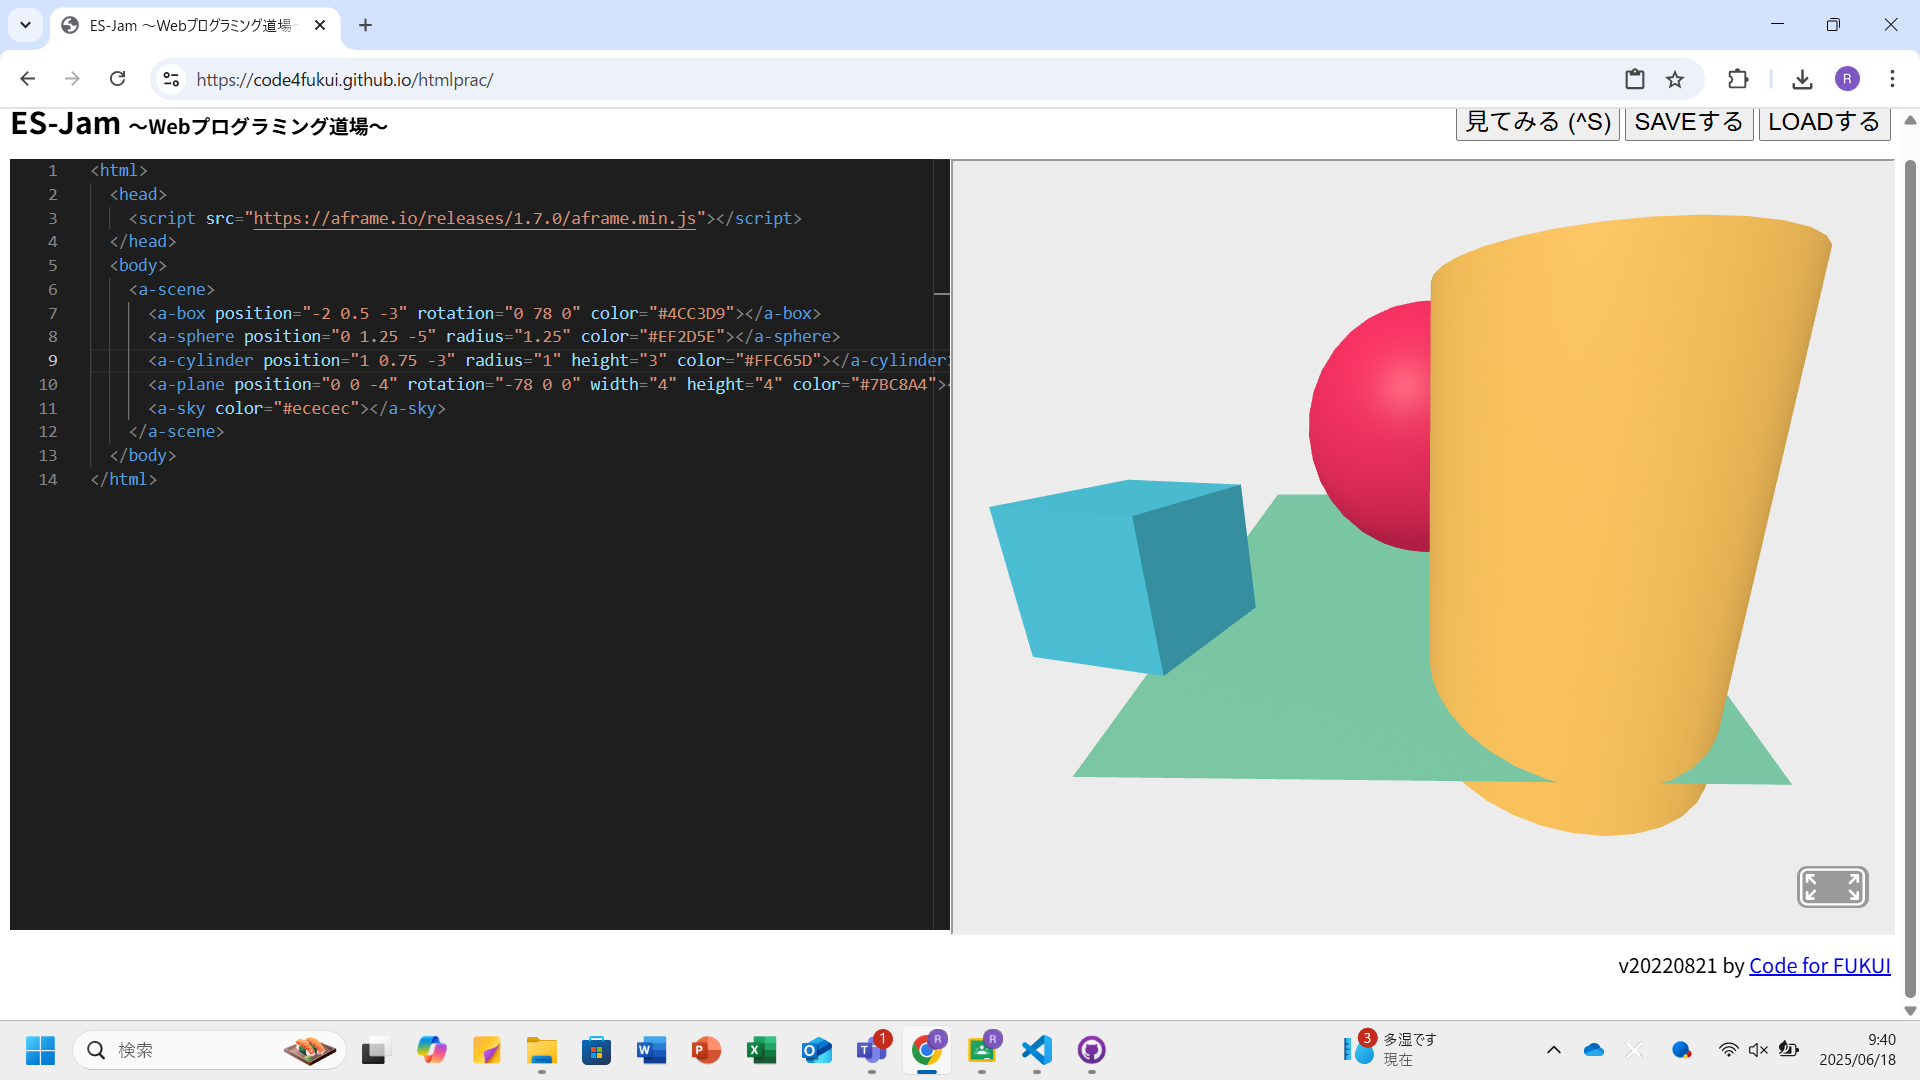
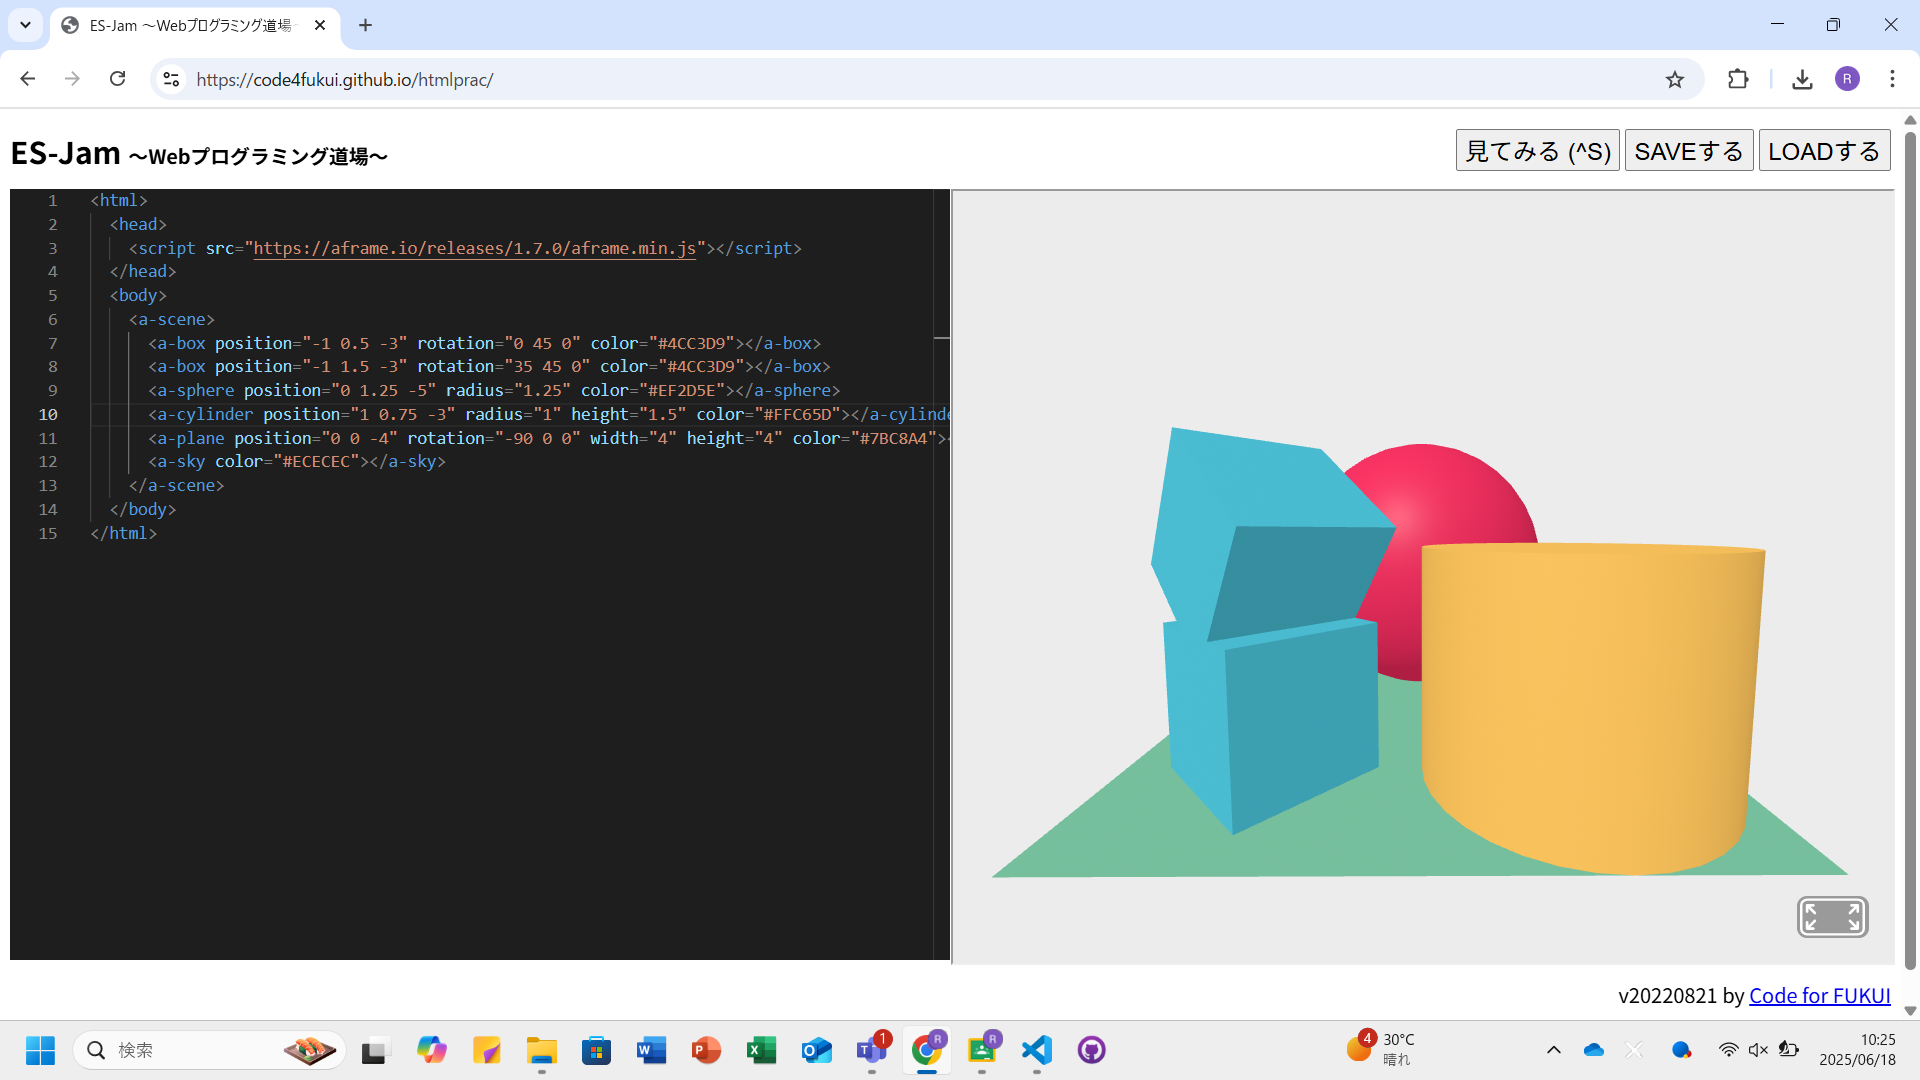
re

diff --git a/VR.html b/VR.html
@@ -1,177 +1,14 @@
 <html>
   <head>
-      <title>Hello, WebVR! - A-Frame</title>
-      <meta name="description" content="Hello, WebVR! - A-Frame">
-    <script src="https://aframe.io/releases/1.1.0/aframe.min.js"></script>
-    <script src="https://rawgit.com/fernandojsg/aframe-teleport-controls/master/dist/aframe-teleport-controls.min.js"></script>
-    <!--
-    <script src="https://cdn.jsdelivr.net/gh/n5ro/aframe-physics-system@v$npm_package_version/dist/aframe-physics-system.min.js"></script>
-    -->
-    <script src="//cdn.rawgit.com/donmccurdy/aframe-physics-system/v4.0.1/dist/aframe-physics-system.min.js"></script>
-    
+    <script src="https://aframe.io/releases/1.7.0/aframe.min.js"></script>
   </head>
   <body>
-    <script>
-      AFRAME.registerComponent('input-listen', {  
-        init:function () { //初期化
-          const txt = document.getElementById("txt");
-          this.el.grip=false;
-          
-          //レイキャスターが何かに交差したとき
-          this.el.addEventListener('raycaster-intersection', function (e) {
-            //複数選択された場合は0番目を覚えさせておく
-            this.selectedObj = e.detail.els[0];
-            txt.setAttribute("value", "Raycaster Intersect!");
-          });
-          //レイキャスターの交差が解除されたとき
-          this.el.addEventListener('raycaster-intersection-cleared', function (e) {
-            //選択オブジェクトの情報をリセット
-            this.selectedObj = null;
-            txt.setAttribute("value", "Raycaster Cleared");
-          });
-          
-          //xボタンを押し始めたときに実行される(左手のみ)
-          this.el.addEventListener('xbuttondown', function (e) {
-            txt.setAttribute("value", "x pressed");
-            this.emit('teleportstart');
-          });
-          //xボタンを離したときに実行される (左手のみ)
-          this.el.addEventListener('xbuttonup', function (e) {
-            txt.setAttribute("value", "x released");
-            this.emit('teleportend');
-          });
-          //yボタンを押し始めたときに実行される(左手のみ)
-          this.el.addEventListener('ybuttondown', function (e) {
-            txt.setAttribute("value", "y pressed");
-          });
-          //yボタンを離したときに実行される (左手のみ)
-          this.el.addEventListener('ybuttonup', function (e) {
-            txt.setAttribute("value", "y released");
-          });
-          //aボタンを押し始めたときに実行される(右手のみ)
-          this.el.addEventListener('abuttondown', function (e) {
-            txt.setAttribute("value", "a pressed");
-            //ballというクラス名のEntity(つまり弾)を全て取得
-            var els = document.querySelectorAll('.ball');
-              //弾を一つずつ削除
-              for (var i = 0; i < els.length; i++) {
-                els[i].parentNode.removeChild(els[i]);
-              }
-          });
-          //aボタンを離したときに実行される (右手のみ)
-          this.el.addEventListener('abuttonup', function (e) {
-            txt.setAttribute("value", "a released");
-          });
-          //bボタンを押し始めたときに実行される(右手のみ)
-          this.el.addEventListener('bbuttondown', function (e) {
-            txt.setAttribute("value", "b pressed");
-          });
-          //bボタンを離したときに実行される (右手のみ)
-          this.el.addEventListener('bbuttonup', function (e) {
-            txt.setAttribute("value", "b released");
-          });
-          //グリップボタンを押し始めたときに実行される(両手に対応)
-          this.el.addEventListener('gripdown', function (e) {
-            txt.setAttribute("value", "grip pressed");
-            this.grip=true;
-          });
-          //グリップボタンを離したときに実行される(両手に対応)
-          this.el.addEventListener('gripup', function (e) {
-            txt.setAttribute("value", "grip released");
-            this.grip=false;
-          });
-          //トリガーボタンを押し始めたときに実行される(両手に対応)
-          this.el.addEventListener('triggerdown', function (e) {
-            txt.setAttribute("value", "trigger pressed");
-            //コントローラの三次元座標を取得(thisはコントローラを参照)
-            var point = this.object3D.getWorldPosition();
-            //球エンティティを生成
-            var ball = document.createElement('a-sphere');
-            ball.setAttribute('class', 'ball');
-            ball.setAttribute('scale', '0.2 0.2 0.2');
-            ball.setAttribute('position', point);
-            //物理演算の影響をオンにする
-            ball.setAttribute('dynamic-body', 'shape: sphere; sphereRadius:0.2; ');
-            //Instantiate ball entity in a-scene
-            var scene = document.querySelector('a-scene');
-            scene.appendChild(ball);
-            //レイキャスターの向きを取得
-            var dir = this.getAttribute("raycaster").direction;
-            //ボールを飛ばす力を計算
-            var force = new THREE.Vector3(dir.x, dir.y, dir.z);
-            //2000倍くらいして結構な力をかける準備をする
-            force.multiplyScalar(2000);
-            //ボールにforceというプロパティを宣言して代入
-            ball.force = this.object3D.localToWorld(force); 
-        
-            //物理的演算に必要な情報がballで読み込み終わったら弾を撃つ 
-            ball.addEventListener('body-loaded', function (e) {
-              //弾(this)の位置を取得
-              var p = this.object3D.position;
-              //先ほど計算した弾(this)に加える勢いを取得
-              var f = this.force;
-              //弾に力を加えて飛ばす
-              this.body.applyForce(
-                new CANNON.Vec3(f.x, f.y, f.z), new CANNON.Vec3(p.x, p.y, p.z)
-              );
-            });
-            
-            txt.setAttribute("value", "sphere appendding finished");
-          });
-          //トリガーボタンを離したときに実行される(両手に対応)
-          this.el.addEventListener('triggerup', function (e) {
-            txt.setAttribute("value", "trigger released");
-          });
-          //ジョイスティックを傾けたとき(両手に対応)
-          this.el.addEventListener('thumbstickmoved', function (e) {
-            if (e.detail.y > 0.95) { txt.setAttribute("value", "DOWN"); }
-            if (e.detail.y < -0.95) { txt.setAttribute("value", "UP"); }
-            if (e.detail.x < -0.95) { txt.setAttribute("value", "LEFT"); }
-            if (e.detail.x > 0.95) { txt.setAttribute("value", "RIGHT"); }
-          });
-        },
-        
-        tick: function () { //毎フレーム更新
-          if (!this.el.selectedObj) { return; }
-          if (!this.el.grip) { return; }
-          //コントローラに追加したraycasterを取得
-          var ray = this.el.getAttribute("raycaster").direction;
-          //コントローラの1.1m手前の座標を計算(コントローラが原点)  
-          var p = new THREE.Vector3(ray.x, ray.y, ray.z);
-          p.normalize();
-          p.multiplyScalar(1.2);
-          //ローカル座標(コントローラ中心)をワールド座標に変換
-          this.el.object3D.localToWorld(p);
-          //Raycasterの先端に選択オブジェクトを追従させる
-          this.el.selectedObj.object3D.position.set(p.x, p.y, p.z);
-        }
-     });
-    </script>
-    <a-scene physics="debug: false; gravity: 0; restitution: 0.9;" background="color: #AAAAAA">
-      <a-box static-body class="collidable" position="-1 0.5 -3" rotation="0 45 0" color="#4CC3D9"></a-box>
-      <a-sphere static-body class="collidable" position="0 1.25 -5" radius="1.25" color="#EF2D5E"></a-sphere>
-      <a-cylinder static-body class="collidable" position="1 0.75 -3" radius="0.5" height="1.5" color="#FFC65D"></a-cylinder>
-      <a-plane static-body position="0 0 0" rotation="-90 0 0" width="10" height="10" src="https://tmdoi.github.io/website/js/controller/back.png" shadow></a-plane>
-      <a-plane static-body position="0 5 0" rotation="90 0 0" width="10" height="10" src="https://tmdoi.github.io/website/js/controller/back.png" shadow></a-plane>
-      <a-plane static-body position="0 2.5 -5" rotation="0 0 0" width="10" height="5" src="https://tmdoi.github.io/website/js/controller/back.png" shadow></a-plane>
-      <a-plane static-body position="0 2.5 5" rotation="0 180 0" width="10" height="5" src="https://tmdoi.github.io/website/js/controller/back.png" shadow></a-plane>
-      <a-plane static-body position="5 2.5 0" rotation="0 -90 0" width="10" height="5" src="https://tmdoi.github.io/website/js/controller/back.png" shadow></a-plane>
-      <a-plane static-body position="-5 2.5 0" rotation="0 90 0" width="10" height="5" src="https://tmdoi.github.io/website/js/controller/back.png" shadow></a-plane>
-      
-      <a-entity id="cameraRig">
-        <a-entity id="head" camera  wasd-controls look-controls position="0 1.6 0">
-          <a-text id="txt" value="--11-1.1.0" position="0 0 -1" scale="0.5 0.5 0.5" align="center" color="#FFFFFF"></a-text>
-        </a-entity>
-      
-        <a-entity teleport-controls="cameraRig: #cameraRig; teleportOrigin:#head;
-                  startEvents: teleportstart; endEvents: teleportend"
-                  raycaster="objects: .collidable; far:1.2;"
-                  oculus-touch-controls="hand: left" input-listen> </a-entity>
-        
-        <a-entity raycaster="objects: .collidable; far:1.2;"
-                  oculus-touch-controls="hand: right" input-listen> </a-entity>
-        
-      </a-entity>
+    <a-scene>
+      <a-box position="-1 0.5 -3" rotation="0 45 0" color="#4CC3D9"></a-box>
+      <a-box position="-1 1.5 -3" rotation="35 45 0" color="#4CC3D9"></a-box>
+      <a-sphere position="0 1.25 -5" radius="1.25" color="#EF2D5E"></a-sphere>
+      <a-cylinder position="1 0.75 -3" radius="1" height="1.5" color="#FFC65D"></a-cylinder>
+      <a-plane position="0 0 -4" rotation="-90 0 0" width="4" height="4" color="#7BC8A4"></a-plane>
       <a-sky color="#ECECEC"></a-sky>
     </a-scene>
   </body>

diff --git a/VR.htm b/VR.htm
@@ -1,0 +1,178 @@
+<html>
+  <head>
+      <title>Hello, WebVR! - A-Frame</title>
+      <meta name="description" content="Hello, WebVR! - A-Frame">
+    <script src="https://aframe.io/releases/1.1.0/aframe.min.js"></script>
+    <script src="https://rawgit.com/fernandojsg/aframe-teleport-controls/master/dist/aframe-teleport-controls.min.js"></script>
+    <!--
+    <script src="https://cdn.jsdelivr.net/gh/n5ro/aframe-physics-system@v$npm_package_version/dist/aframe-physics-system.min.js"></script>
+    -->
+    <script src="//cdn.rawgit.com/donmccurdy/aframe-physics-system/v4.0.1/dist/aframe-physics-system.min.js"></script>
+    
+  </head>
+  <body>
+    <script>
+      AFRAME.registerComponent('input-listen', {  
+        init:function () { //初期化
+          const txt = document.getElementById("txt");
+          this.el.grip=false;
+          
+          //レイキャスターが何かに交差したとき
+          this.el.addEventListener('raycaster-intersection', function (e) {
+            //複数選択された場合は0番目を覚えさせておく
+            this.selectedObj = e.detail.els[0];
+            txt.setAttribute("value", "Raycaster Intersect!");
+          });
+          //レイキャスターの交差が解除されたとき
+          this.el.addEventListener('raycaster-intersection-cleared', function (e) {
+            //選択オブジェクトの情報をリセット
+            this.selectedObj = null;
+            txt.setAttribute("value", "Raycaster Cleared");
+          });
+          
+          //xボタンを押し始めたときに実行される(左手のみ)
+          this.el.addEventListener('xbuttondown', function (e) {
+            txt.setAttribute("value", "x pressed");
+            this.emit('teleportstart');
+          });
+          //xボタンを離したときに実行される (左手のみ)
+          this.el.addEventListener('xbuttonup', function (e) {
+            txt.setAttribute("value", "x released");
+            this.emit('teleportend');
+          });
+          //yボタンを押し始めたときに実行される(左手のみ)
+          this.el.addEventListener('ybuttondown', function (e) {
+            txt.setAttribute("value", "y pressed");
+          });
+          //yボタンを離したときに実行される (左手のみ)
+          this.el.addEventListener('ybuttonup', function (e) {
+            txt.setAttribute("value", "y released");
+          });
+          //aボタンを押し始めたときに実行される(右手のみ)
+          this.el.addEventListener('abuttondown', function (e) {
+            txt.setAttribute("value", "a pressed");
+            //ballというクラス名のEntity(つまり弾)を全て取得
+            var els = document.querySelectorAll('.ball');
+              //弾を一つずつ削除
+              for (var i = 0; i < els.length; i++) {
+                els[i].parentNode.removeChild(els[i]);
+              }
+          });
+          //aボタンを離したときに実行される (右手のみ)
+          this.el.addEventListener('abuttonup', function (e) {
+            txt.setAttribute("value", "a released");
+          });
+          //bボタンを押し始めたときに実行される(右手のみ)
+          this.el.addEventListener('bbuttondown', function (e) {
+            txt.setAttribute("value", "b pressed");
+          });
+          //bボタンを離したときに実行される (右手のみ)
+          this.el.addEventListener('bbuttonup', function (e) {
+            txt.setAttribute("value", "b released");
+          });
+          //グリップボタンを押し始めたときに実行される(両手に対応)
+          this.el.addEventListener('gripdown', function (e) {
+            txt.setAttribute("value", "grip pressed");
+            this.grip=true;
+          });
+          //グリップボタンを離したときに実行される(両手に対応)
+          this.el.addEventListener('gripup', function (e) {
+            txt.setAttribute("value", "grip released");
+            this.grip=false;
+          });
+          //トリガーボタンを押し始めたときに実行される(両手に対応)
+          this.el.addEventListener('triggerdown', function (e) {
+            txt.setAttribute("value", "trigger pressed");
+            //コントローラの三次元座標を取得(thisはコントローラを参照)
+            var point = this.object3D.getWorldPosition();
+            //球エンティティを生成
+            var ball = document.createElement('a-sphere');
+            ball.setAttribute('class', 'ball');
+            ball.setAttribute('scale', '0.2 0.2 0.2');
+            ball.setAttribute('position', point);
+            //物理演算の影響をオンにする
+            ball.setAttribute('dynamic-body', 'shape: sphere; sphereRadius:0.2; ');
+            //Instantiate ball entity in a-scene
+            var scene = document.querySelector('a-scene');
+            scene.appendChild(ball);
+            //レイキャスターの向きを取得
+            var dir = this.getAttribute("raycaster").direction;
+            //ボールを飛ばす力を計算
+            var force = new THREE.Vector3(dir.x, dir.y, dir.z);
+            //2000倍くらいして結構な力をかける準備をする
+            force.multiplyScalar(2000);
+            //ボールにforceというプロパティを宣言して代入
+            ball.force = this.object3D.localToWorld(force); 
+        
+            //物理的演算に必要な情報がballで読み込み終わったら弾を撃つ 
+            ball.addEventListener('body-loaded', function (e) {
+              //弾(this)の位置を取得
+              var p = this.object3D.position;
+              //先ほど計算した弾(this)に加える勢いを取得
+              var f = this.force;
+              //弾に力を加えて飛ばす
+              this.body.applyForce(
+                new CANNON.Vec3(f.x, f.y, f.z), new CANNON.Vec3(p.x, p.y, p.z)
+              );
+            });
+            
+            txt.setAttribute("value", "sphere appendding finished");
+          });
+          //トリガーボタンを離したときに実行される(両手に対応)
+          this.el.addEventListener('triggerup', function (e) {
+            txt.setAttribute("value", "trigger released");
+          });
+          //ジョイスティックを傾けたとき(両手に対応)
+          this.el.addEventListener('thumbstickmoved', function (e) {
+            if (e.detail.y > 0.95) { txt.setAttribute("value", "DOWN"); }
+            if (e.detail.y < -0.95) { txt.setAttribute("value", "UP"); }
+            if (e.detail.x < -0.95) { txt.setAttribute("value", "LEFT"); }
+            if (e.detail.x > 0.95) { txt.setAttribute("value", "RIGHT"); }
+          });
+        },
+        
+        tick: function () { //毎フレーム更新
+          if (!this.el.selectedObj) { return; }
+          if (!this.el.grip) { return; }
+          //コントローラに追加したraycasterを取得
+          var ray = this.el.getAttribute("raycaster").direction;
+          //コントローラの1.1m手前の座標を計算(コントローラが原点)  
+          var p = new THREE.Vector3(ray.x, ray.y, ray.z);
+          p.normalize();
+          p.multiplyScalar(1.2);
+          //ローカル座標(コントローラ中心)をワールド座標に変換
+          this.el.object3D.localToWorld(p);
+          //Raycasterの先端に選択オブジェクトを追従させる
+          this.el.selectedObj.object3D.position.set(p.x, p.y, p.z);
+        }
+     });
+    </script>
+    <a-scene physics="debug: false; gravity: 0; restitution: 0.9;" background="color: #AAAAAA">
+      <a-box static-body class="collidable" position="-1 0.5 -3" rotation="0 45 0" color="#4CC3D9"></a-box>
+      <a-sphere static-body class="collidable" position="0 1.25 -5" radius="1.25" color="#EF2D5E"></a-sphere>
+      <a-cylinder static-body class="collidable" position="1 0.75 -3" radius="0.5" height="1.5" color="#FFC65D"></a-cylinder>
+      <a-plane static-body position="0 0 0" rotation="-90 0 0" width="10" height="10" src="https://tmdoi.github.io/website/js/controller/back.png" shadow></a-plane>
+      <a-plane static-body position="0 5 0" rotation="90 0 0" width="10" height="10" src="https://tmdoi.github.io/website/js/controller/back.png" shadow></a-plane>
+      <a-plane static-body position="0 2.5 -5" rotation="0 0 0" width="10" height="5" src="https://tmdoi.github.io/website/js/controller/back.png" shadow></a-plane>
+      <a-plane static-body position="0 2.5 5" rotation="0 180 0" width="10" height="5" src="https://tmdoi.github.io/website/js/controller/back.png" shadow></a-plane>
+      <a-plane static-body position="5 2.5 0" rotation="0 -90 0" width="10" height="5" src="https://tmdoi.github.io/website/js/controller/back.png" shadow></a-plane>
+      <a-plane static-body position="-5 2.5 0" rotation="0 90 0" width="10" height="5" src="https://tmdoi.github.io/website/js/controller/back.png" shadow></a-plane>
+      
+      <a-entity id="cameraRig">
+        <a-entity id="head" camera  wasd-controls look-controls position="0 1.6 0">
+          <a-text id="txt" value="--11-1.1.0" position="0 0 -1" scale="0.5 0.5 0.5" align="center" color="#FFFFFF"></a-text>
+        </a-entity>
+      
+        <a-entity teleport-controls="cameraRig: #cameraRig; teleportOrigin:#head;
+                  startEvents: teleportstart; endEvents: teleportend"
+                  raycaster="objects: .collidable; far:1.2;"
+                  oculus-touch-controls="hand: left" input-listen> </a-entity>
+        
+        <a-entity raycaster="objects: .collidable; far:1.2;"
+                  oculus-touch-controls="hand: right" input-listen> </a-entity>
+        
+      </a-entity>
+      <a-sky color="#ECECEC"></a-sky>
+    </a-scene>
+  </body>
+</html>

diff --git a/dengon.html b/dengon.html
@@ -1,0 +1,21 @@
+|<!doctype html>
+<html>
+  <head>
+    <meta charset="utf-8"/>
+      <script>
+function 伝言する() {
+  if (入力内容.value === "") {
+    alert("入力内容を入れてね");
+  } else {
+    伝言エリア.innerText = 入力内容.value;
+    alert("伝言をセットしました");
+  }
+}
+</script>
+  </head>
+  <body>
+    伝言板
+    <p id="伝言エリア">伝言はまだありません</p>
+    <input id="入力内容"><button onclick="伝言する();">伝言</button>
+  </body>
+</html>
